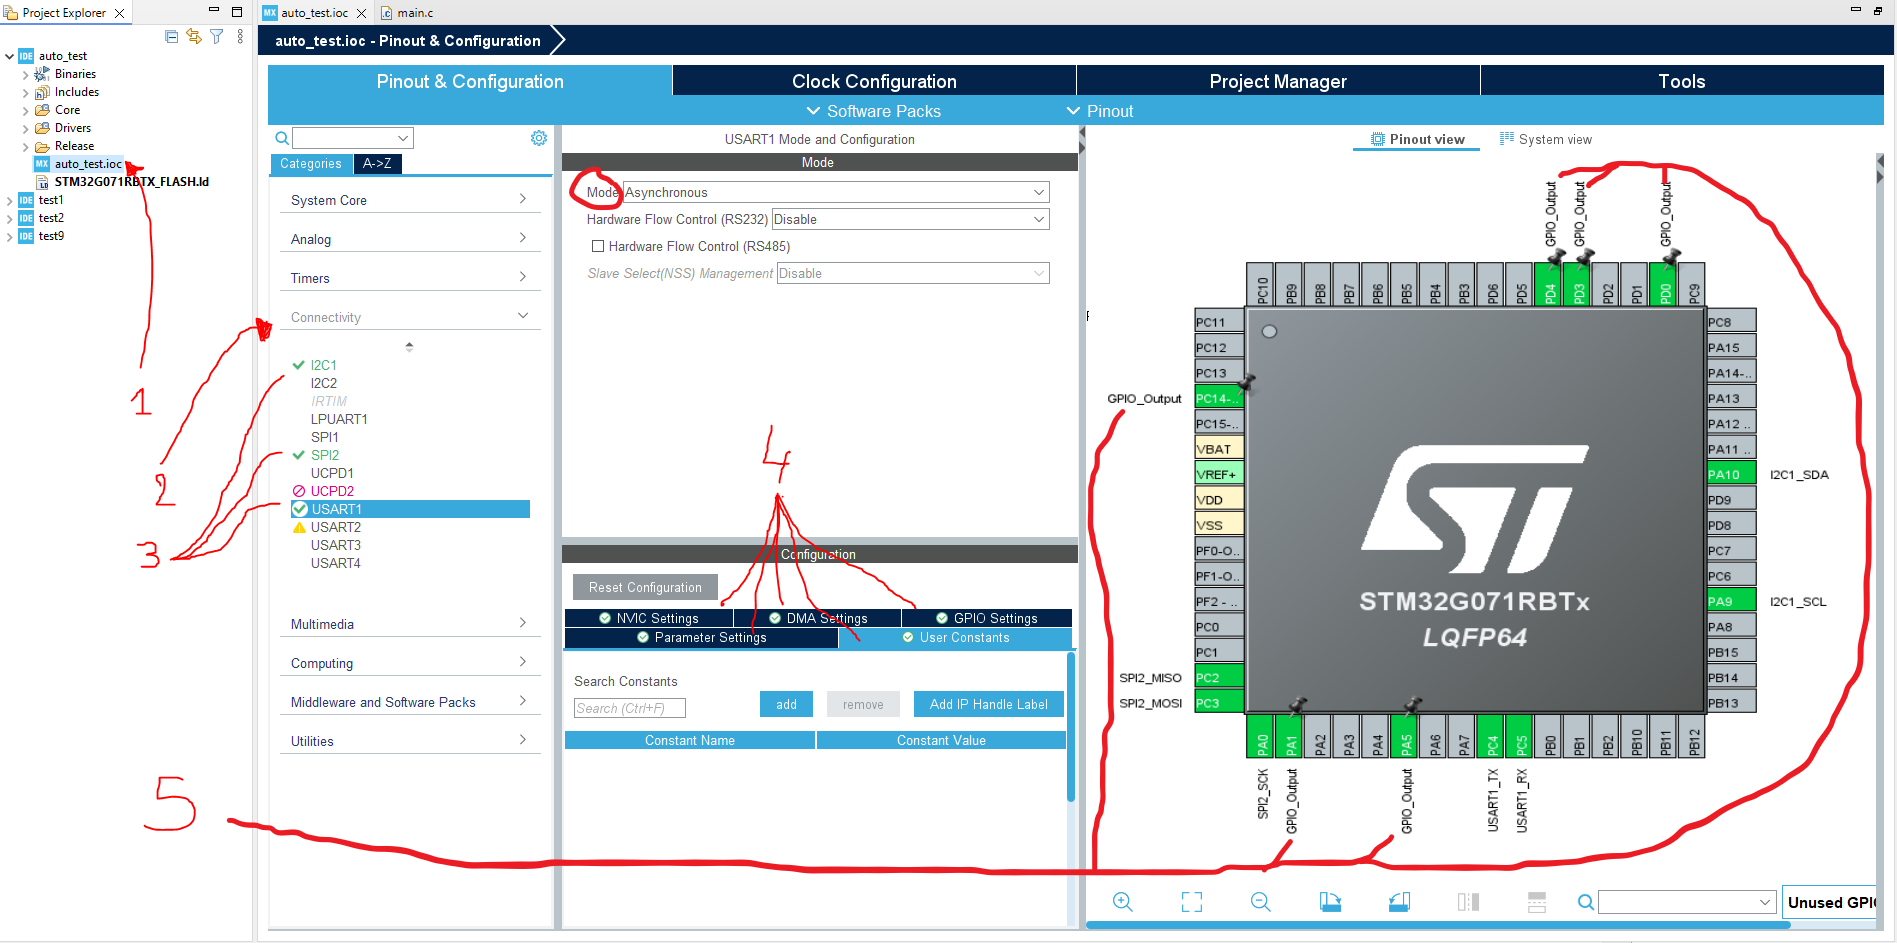
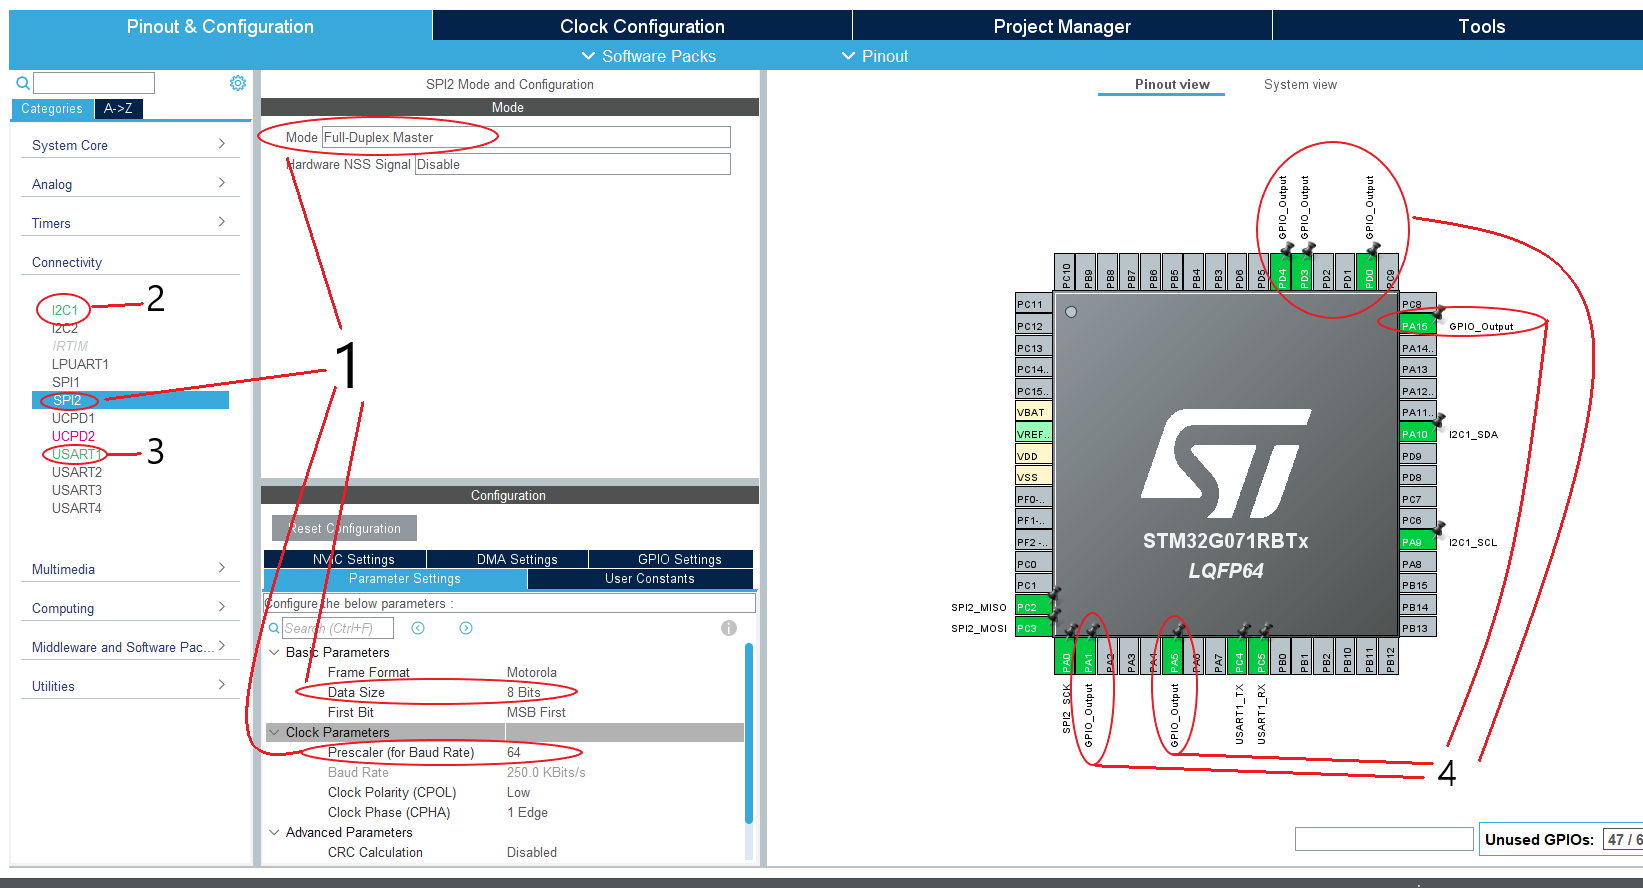
autotest: fix STM32 SPI configuration, fix raspberry pie script.

diff --git a/02_2_auto_test/README.md b/02_2_auto_test/README.md
@@ -9,16 +9,18 @@ Let's create a new STM32 project and configure these pins:
 1. Open the .ioc file,
 2. Go to connectivity,
 3. For each interface shown in green, enable the interface via the mode dropdown menu:
-    - UART1: Asynchronous
-    - I2C1: I2C
-    - SPI1: Full-Duplex Master
+    1. SPI1: Full-Duplex Master, with 8bit word size and a high prescaler of 64 to slow down the SPI clock speed (we are using jumpers of low quality and different lengths, high speed SPI may not work reliably),
+    2. I2C1: I2C
+    3. UART1: Asynchronous
+    4. Set the GPIOs to GPIO_OUTPUT,
 4. Go through the configuration panels, discover the parameters for each interface,
-5. Set the GPIOs to GPIO_OUTPUT,
-6. Save with ctrl+s to generate the code.
+5. Save with ctrl+s to generate the code.
+
 
 
 ![Auto Test Pin Configuration](../.images/02_hands_on_platform/auto_test.png)
 
+![SPI specific configuration](../.images/02_hands_on_platform/spi_config.png)
 
 In the main.c file, the idea is to test each group of interfaces (GPIOs, UART, I2C, SPI) one by one. 
 
@@ -30,7 +32,6 @@ For each interface, we will send a message and wait for a response. If the respo
 - Or the auto test script is not working properly.
 
 ```C
-
 /* Private define ------------------------------------------------------------*/
 /* USER CODE BEGIN PD */
 #define RX_BUFFER_SIZE 256
@@ -125,7 +126,7 @@ int main(void)
   HAL_GPIO_WritePin(GPIOD, GPIO_PIN_0, GPIO_PIN_RESET);
   HAL_GPIO_WritePin(GPIOD, GPIO_PIN_3, GPIO_PIN_RESET);
   HAL_GPIO_WritePin(GPIOD, GPIO_PIN_4, GPIO_PIN_RESET);
-  HAL_GPIO_WritePin(GPIOC, GPIO_PIN_14, GPIO_PIN_RESET);
+  HAL_GPIO_WritePin(GPIOA, GPIO_PIN_15, GPIO_PIN_RESET);
 
   // Test Each GPIO one by one
   HAL_GPIO_WritePin(GPIOD, GPIO_PIN_0, GPIO_PIN_SET);
@@ -140,10 +141,10 @@ int main(void)
   HAL_Delay(2000);
 
   HAL_GPIO_WritePin(GPIOD, GPIO_PIN_4, GPIO_PIN_RESET);
-  HAL_GPIO_WritePin(GPIOC, GPIO_PIN_14, GPIO_PIN_SET);
+  HAL_GPIO_WritePin(GPIOA, GPIO_PIN_15, GPIO_PIN_SET);
   HAL_Delay(2000);
 
-  HAL_GPIO_WritePin(GPIOC, GPIO_PIN_14, GPIO_PIN_RESET);
+  HAL_GPIO_WritePin(GPIOA, GPIO_PIN_15, GPIO_PIN_RESET);
   /* ----------- TEST GPIO END ---------- */
 
   /* ----------- TEST USART ---------- */
@@ -164,7 +165,11 @@ int main(void)
   }
   /* ----------- TEST USART END ---------- */
 
+  HAL_Delay(5000);
+
+
   /* ----------- TEST I2C Device ---------- */
+//  HAL_UART_Transmit(&huart1, (uint8_t*)"Hello_STM32\r\n", 14, 500);
   ret = HAL_I2C_IsDeviceReady(&hi2c1, ADS1015_ADDR, 5, 100);
   if(HAL_OK == ret)
   {
@@ -220,10 +225,7 @@ int main(void)
   while (1)
   {
     /* USER CODE END WHILE */
-    /* Toggle the state of PA5 */
-    HAL_GPIO_TogglePin(GPIOA, GPIO_PIN_5);
-    /* Insert a delay of 500ms */
-    HAL_Delay(500);
+
     /* USER CODE BEGIN 3 */
   }
 
@@ -261,10 +263,7 @@ To be able to use the UART and I2C on the Raspberry Pi, we need to enable them f
 
     - Select Finish and choose Yes to reboot the Raspberry Pi.
 
-2. Install pyserial
-    - Run the following command to install pyserial: ```sudo pip3 install pyserial```
-
-3. Install I2C Tools
+2. Install I2C Tools
     - Run the following commands to install I2C tools:
       - ```sudo apt update```
       - ```sudo apt install -y i2c-tools```
@@ -274,8 +273,10 @@ To be able to use the UART and I2C on the Raspberry Pi, we need to enable them f
       - ```pip3 install adafruit-blinka adafruit-circuitpython-mcp4728```
       - ```sudo apt update```
       - ```sudo apt install swig python3-dev gcc liblgpio-dev```
-      - ```pip3 install gpiozero lgpio```s
+      - ```pip3 install gpiozero lgpio```
 
+3. Install pyserial
+    - Run the following command to install pyserial: ```pip3 install pyserial```
 ## Python Script
 
 Now, let's create ```auto_test.py``` script:
@@ -324,7 +325,7 @@ class STM32AutoTest:
             'PD0': 23,   # STM32 PD0 on RPi GPIO 23
             'PD3': 21,   # STM32 PD3 on RPi GPIO 21
             'PD4': 19,   # STM32 PD4 on RPi GPIO 19
-            'PC14': 15   # STM32 PC14 on RPi GPIO 15
+            'PA15': 15   # STM32 PA15 on RPi GPIO 15
         }
 
         self.gpio_inputs = {}  # Will store DigitalInputDevice objects
@@ -466,7 +467,7 @@ class STM32AutoTest:
         """
         Test a single GPIO pin by verifying it goes HIGH and stays HIGH.
         Args:
-            stm32_pin: STM32 pin name as key (e.g., 'PD0', 'PD3', 'PD4', 'PC14')
+            stm32_pin: STM32 pin name as key (e.g., 'PD0', 'PD3', 'PD4', 'PA15')
         Returns:
             True if test passed, False otherwise
         """
@@ -479,18 +480,14 @@ class STM32AutoTest:
         gpio_device = self.gpio_inputs[stm32_pin]
         print(f"[TEST] STM32 GPIO {stm32_pin} -- RPi GPIO {rpi_pin} ... ")
 
-        time.sleep(0.5)  # Allow time for STM32 to set the pin HIGH
         # Verify it stays HIGH for some duration
-        start_value = gpio_device.is_active
-        time.sleep(1)
-        end_value = gpio_device.is_active
-        time.sleep(0.45)  # complete ~2 seconds of duration
+        start_value = gpio_device.value
 
-        if start_value and end_value:
-            print(f"{self.GREEN}[PASS] GPIO {stm32_pin}: start_value: {start_value}, end_value: {end_value} {self.RESET}")
+        if start_value :
+            print(f"{self.GREEN}[PASS] GPIO {stm32_pin}: start_value: {start_value}, {self.RESET}")
             return True
         else:
-            print(f"{self.RED}[FAIL] GPIO {stm32_pin}: start_value: {start_value}, end_value: {end_value}{self.RESET}")
+            print(f"{self.RED}[FAIL] GPIO {stm32_pin}: start_value: {start_value}, {self.RESET}")
             self.all_passed = False
             return False
 
@@ -506,9 +503,9 @@ class STM32AutoTest:
         """Test STM32 GPIO PD4."""
         return self.test_gpio_pin('PD4')
 
-    def test_gpio_pc14(self) -> bool:
-        """Test STM32 GPIO PC14."""
-        return self.test_gpio_pin('PC14')
+    def test_gpio_pa15(self) -> bool:
+        """Test STM32 GPIO PA15."""
+        return self.test_gpio_pin('PA15')
 
     def test_uart(self, test_message: str = "HELLO_STM32") -> bool:
         """
@@ -534,13 +531,13 @@ class STM32AutoTest:
             # Wait for response (STM32 will echo back)
             print("[INFO] Waiting for echo response...")
             time.sleep(2.2)
-            response = self.uart.readline().decode('utf-8', errors='ignore').strip()
+            self.response = self.uart.readline().decode('utf-8', errors='ignore').strip()
 
-            if test_message in response:
-                print(f"{self.GREEN}[PASS] Received echo: '{response}'{self.RESET}")
+            if test_message in self.response:
+                print(f"{self.GREEN}[PASS] Received echo: '{self.response}'{self.RESET}")
                 return True
             else:
-                print(f"{self.RED}[FAIL] Unexpected response: '{response}'{self.RESET}")
+                print(f"{self.RED}[FAIL] Unexpected response: '{self.response}'{self.RESET}")
                 print(f"{self.RED}[FAIL] Expected: '{test_message}'{self.RESET}")
                 self.all_passed = False
                 return False
@@ -550,30 +547,30 @@ class STM32AutoTest:
             self.all_passed = False
             return False
 
-    def test_i2c_and_spi_device(self) -> bool:
+    def test_stm32_i2c_and_spi_devices(self) -> bool:
         """
         Test I2C and SPI communication by checking if the devices respond.
         Returns:
             True if both tests passed, False otherwise
         """
         print(f"[TEST] Testing I2C and SPI Devices")
-        response = self.uart.readline().decode('utf-8', errors='ignore').strip()
+        self.response = self.response + self.uart.read(self.uart.in_waiting).decode('utf-8', errors='ignore').strip()
 
-        if "[PASS][I2C]" in response:
+        if "[PASS][I2C]" in self.response:
             print(f"{self.GREEN}[PASS] I2C device responded successfully{self.RESET}")
         else:
             print(f"{self.RED}[FAIL] I2C device did not respond properly{self.RESET}")
             self.all_passed = False
 
-        if "[PASS][SPI]" in response:
+        if "[PASS][SPI]" in self.response:
             print(f"{self.GREEN}[PASS] SPI FRAM device responded successfully{self.RESET}")
         else:
             print(f"{self.RED}[FAIL] SPI FRAM device did not respond properly{self.RESET}")
             self.all_passed = False
 
-        print(f"[INFO] STM32 Response: \n>>>{response}\n<<<")
+        print(f"[INFO] STM32 Response: \n>>>{self.response}\n<<<")
 
-    def verify_mcp4728_connection(self, target_address=0x60) -> bool:
+    def verify_raspi_to_mcp4728_connection(self, target_address=0x60) -> bool:
         """
         Pings the MCP4728 DAC using two sequential methods:
         1. Low-level bus scan using the system 'i2cdetect' tool.
@@ -582,14 +579,9 @@ class STM32AutoTest:
         """
         print(f"[TEST] Verifying MCP4728 at 0x{target_address:02X}")
 
-        # Test 1: System-level i2cdetect verification
-        try:
-            result = subprocess.run(['i2cdetect', '-y', '1'], capture_output=True, text=True>
-            print(f"[INFO] the command 'i2cdetect -y 1' returned:")
-            print(f">>>\n{result.stdout}\n<<<")
-        except Exception as e:
-            print(f"{self.RED}[FAIL] i2cdetect check failed: {e}{self.RESET}")
-            bus_scan_ok = False
+        # Test 1: Low-level bus scan using i2cdetect
+        # run the i2cdetect command manually on your terminal
+        # i2cdetect -y 1
 
         # Test 2: Library-level communication verification
         try:
@@ -648,22 +640,28 @@ class STM32AutoTest:
         if not self.initialize_uart():
             self.show_fail_state()
             return False
+        self.show_testing_state()
 
         # Flash STM32
         if not self.flash_stm32():
             self.show_fail_state()
             return False
 
-        self.show_testing_state()
-
         self.test_gpio_pd0()
+        time.sleep(2)
         self.test_gpio_pd3()
+        time.sleep(2)
         self.test_gpio_pd4()
-        self.test_gpio_pc14()
+        time.sleep(2)
+        self.test_gpio_pa15()
+        time.sleep(2)
 
         self.test_uart()
 
-        self.test_i2c_and_spi_device()
+        time.sleep(10)
+        self.test_stm32_i2c_and_spi_devices()
+
+        self.verify_raspi_to_mcp4728_connection()
 
         if self.all_passed:
             self.show_pass_state()
